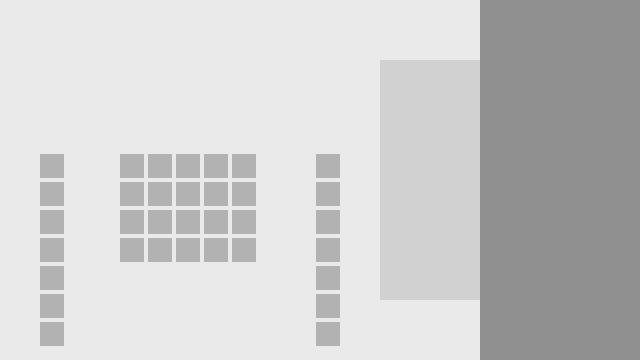
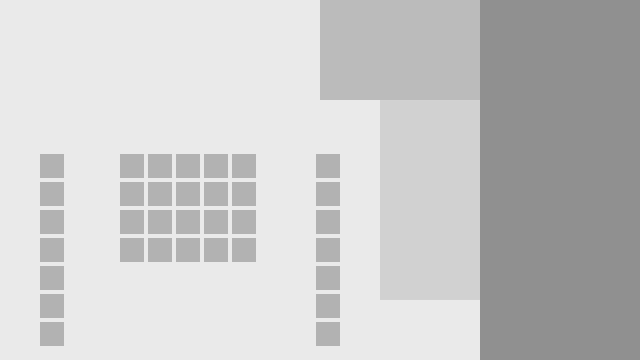
Adding Rules Panel

Changed region(s): [[0.5, 0.0, 0.75, 0.275]]

diff --git a/src/js/Game.js b/src/js/Game.js
@@ -38,8 +38,6 @@ g.Game.prototype = {
 		this.currentCommand = this.add.text(40,25,"Command : ",style);
 
 		this.startLevel();
-		this.add.sprite(680-180-115, 62, 'inc');
-		this.add.sprite(680-180-115, 62+21, 'dec');
 		this.add.sprite(680-180-115, 62+2*21, 'sub');
 		this.add.sprite(680-180-115, 62+3*21, 'add');
 		this.add.sprite(680-180-115, 62+4*21, 'jump');
